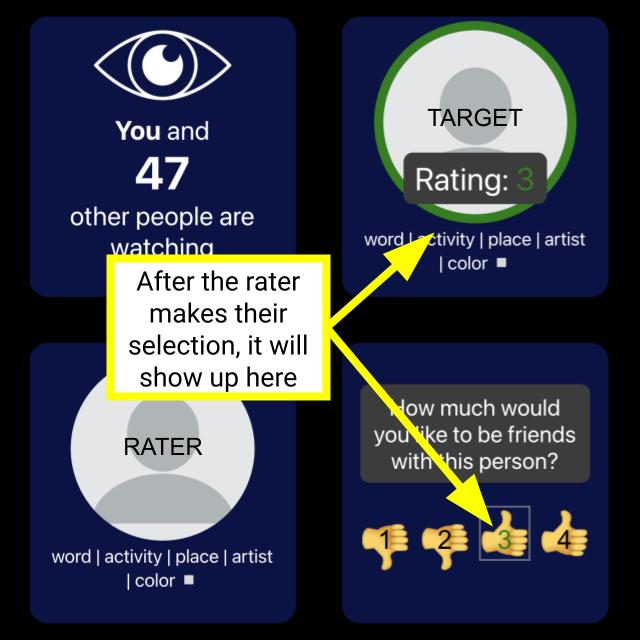
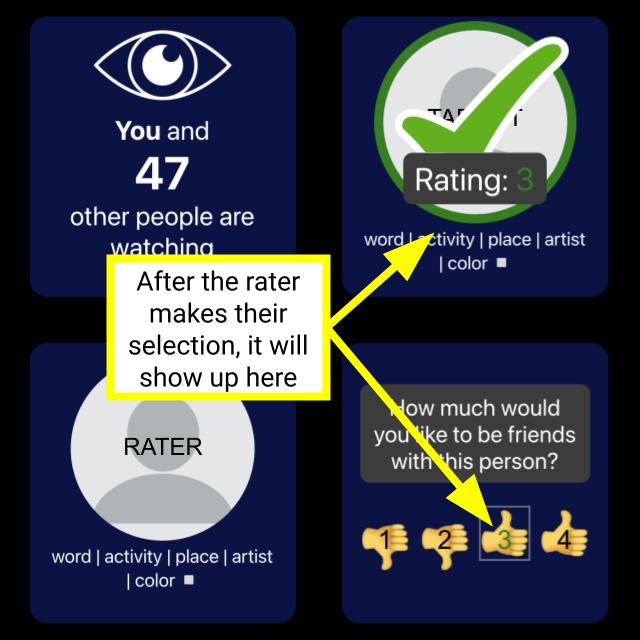
add checks to tut imgs; add facecheck/acc before each block; make mean scores only 1 sigfig

Changed region(s): [[0.625, 0.0312, 0.9062, 0.3125]]

diff --git a/src/components/timeline.js b/src/components/timeline.js
@@ -64,20 +64,34 @@ export default function Timeline(props) {
         (c) => <Instruction id="tutorialText" ind="0" img="4" next={next} prev={prev} curr={c} />,
         (c) => <Instruction id="tutorialText" ind="0" img="5" next={next} prev={prev} curr={c} />,
 
-        // // getting started screen
+        // accuracy
         (c) => <FaceCheck prev={prev} next={next} curr={c} />,
+        (c) => <Instruction id="calibrationText" ind="4" next={next} prev={prev} curr={c} />,
+        (c) => <Accuracy prev={prev} next={next} curr={c} />,
+        
+        // content
         (c) => <Instruction id="blockBeginningText" ind="0" next={next} prev={prev} curr={c} />,
-
-        // // content
         (c) => <Block next={next} curr={c} props={blockProps[0]} />,
 
         ////////////
         // RATING //
         ////////////
 
+        // accuracy
+        (c) => <FaceCheck prev={prev} next={next} curr={c} />,
+        (c) => <Instruction id="calibrationText" ind="4" next={next} prev={prev} curr={c} />,
+        (c) => <Accuracy prev={prev} next={next} curr={c} />,
+
+        // content
         (c) => <Instruction id="blockBeginningText" ind="1" next={next} curr={c} />,
         (c) => <Block next={next} curr={c} props={blockProps[1]} />,
 
+        // accuracy
+        (c) => <FaceCheck prev={prev} next={next} curr={c} />,
+        (c) => <Instruction id="calibrationText" ind="4" next={next} prev={prev} curr={c} />,
+        (c) => <Accuracy prev={prev} next={next} curr={c} />,
+
+        // content
         (c) => <Instruction id="betweenBlocksText" ind="0" next={next} curr={c} />,
         (c) => <Block next={next} curr={c} props={blockProps[2]} />,
 
@@ -104,15 +118,33 @@ export default function Timeline(props) {
         (c) => <Block next={next} curr={c} props={blockProps[3]} />,
         (c) => <Summary next={next} curr={c} props={blockProps[3]} />,
 
+        // accuracy
+        (c) => <FaceCheck prev={prev} next={next} curr={c} />,
+        (c) => <Instruction id="calibrationText" ind="4" next={next} prev={prev} curr={c} />,
+        (c) => <Accuracy prev={prev} next={next} curr={c} />,
+
+        // content
         (c) => <Instruction id="betweenBlocksText" ind="0" next={next} curr={c} />,
         (c) => <Block next={next} curr={c} props={blockProps[4]} />,
         (c) => <Summary next={next} curr={c} props={blockProps[4]} />,
 
+        // recalibrate again
         (c) => <FaceCheck prev={prev} next={next} curr={c} />,
+        (c) => <Instruction id="calibrationText" ind="1" next={next} prev={prev} curr={c} />,
+        (c) => <Calibration prev={prev} next={next} curr={c} />,  // must be presented with accuracy
+        (c) => <Accuracy prev={prev} next={next} curr={c} />,
+
+        // content
         (c) => <Instruction id="betweenBlocksText" ind="0" next={next} curr={c} />,
         (c) => <Block next={next} curr={c} props={blockProps[5]} />,
         (c) => <Summary next={next} curr={c} props={blockProps[5]} />,
 
+        // accuracy
+        (c) => <FaceCheck prev={prev} next={next} curr={c} />,
+        (c) => <Instruction id="calibrationText" ind="4" next={next} prev={prev} curr={c} />,
+        (c) => <Accuracy prev={prev} next={next} curr={c} />,
+
+        // content
         (c) => <Instruction id="betweenBlocksText" ind="0" next={next} curr={c} />,
         (c) => <Block next={next} curr={c} props={blockProps[6]} />,
         (c) => <Summary next={next} curr={c} props={blockProps[6]} />,

diff --git a/src/assets/text.js b/src/assets/text.js
@@ -76,8 +76,9 @@ export const calibrationText = [
         <p>You will see a series of <span style={{color: "red"}}>red</span> buttons. Click on each button 5 times while looking at the button, until it turns <span style={{color: "#ffee00"}}>yellow</span>.</p>
         <p>Always follow the mouse with your eyes.</p>
         </div>),
-    (<p>To finish calibrating your eye tracking, the next screen will have a <span style={{color: "#ffee00"}}>yellow</span> dot. Please don't move your mouse and stare at this dot 5 seconds.</p>),
-    (<p style={{textAlign: "center"}}>Calibrated!</p>)
+    (<p>To finish calibrating your eye tracking, the next screen will have a <span style={{color: "#ffee00"}}>yellow</span> dot. Please don't move your mouse and stare at this dot for 5 seconds.</p>),
+    (<p style={{textAlign: "center"}}>All set!</p>),
+    (<p>The next screen will have a <span style={{color: "#ffee00"}}>yellow</span> dot. Please don't move your mouse and stare at this dot for 5 seconds.</p>),
 ]
 
 export const bioQuestions = {

diff --git a/randomize_impersonators.py b/randomize_impersonators.py
@@ -4,7 +4,7 @@ from collections import Counter
 import json
 
 def randfloat(low, high):
-    return round(uniform(low, high), 2)
+    return round(uniform(low, high), 1)
 
 def gen_rand(low, high, num, is_float=False):
     ret = []
